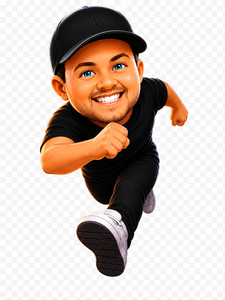
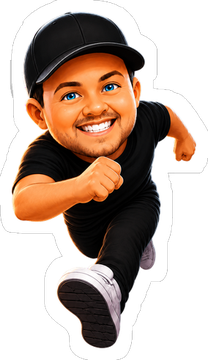
Player sprite: transparent cutout with white sticker outline, sized up

diff --git a/index.html b/index.html
@@ -579,8 +579,8 @@
   function drawPlayer(){
     const cx=player.x+player.w/2, cy=player.y+player.h/2;
     // full-body runner: keep the sprite's aspect, drawn a little larger than the hitbox
-    const ph = 100;
-    const aspect = (face.naturalWidth && face.naturalHeight) ? face.naturalWidth/face.naturalHeight : 0.75;
+    const ph = 138;
+    const aspect = (face.naturalWidth && face.naturalHeight) ? face.naturalWidth/face.naturalHeight : 0.62;
     const pw = ph*aspect;
     const loaded = face.complete && face.naturalWidth;
     // motion-blur ghosts of the runner